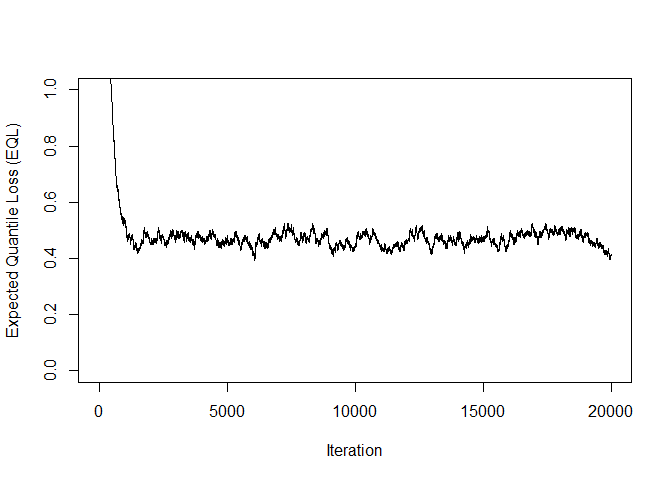
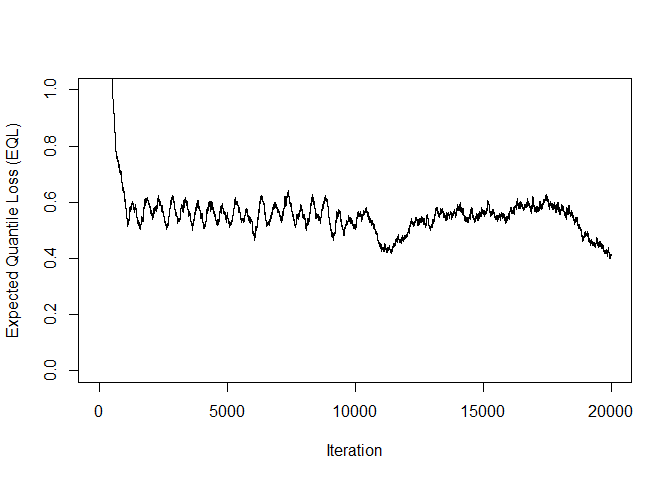
Changed DUMIQE algorithm

Changed region(s): [[0.1562, 0.2812, 0.5625, 0.5312], [0.5625, 0.4062, 0.875, 0.5312]]

diff --git a/3rd_session.md b/3rd_session.md
@@ -48,7 +48,7 @@ DUMIQE <- function (t, x_obs, q_hat_previous, lambda_vec, q_prob) {
         rep(Q_min, times = length(lambda_vec)) # L was still not defined
     } else {
         ifelse(
-            x_obs[t + 1] >= q_hat_previous,                           # Logical vector
+            x_obs[t] >= q_hat_previous,                           # Logical vector
             # RECALL: between 2 vectors, * and + performs element-wise multiplication and addition, respectively
             q_hat_previous + lambda_vec * D1(q_prob, q_hat_previous), # If TRUE
             q_hat_previous - lambda_vec * D2(q_prob, q_hat_previous)  # If FALSE
@@ -219,7 +219,7 @@ plot(
     x = 0:(N-1),
     y = oracle_fig2$lambdas,
     type = "l", # Line Plot
-    ylim = c(0,0.50),
+    ylim = c(0,0.15),
     xlab = "Iteration",
     ylab = expression(lambda)
 )
@@ -301,7 +301,8 @@ For higher values of $N$ (as in Hammer et al.
 only thing I need is to compute the squared difference between
 $Q_{\text{obs}}$ and $\hat{Q}$. There’s no need to store anything else!
 I´m having problems to run what´s below because of memory requirements.
-\## *Oracle* Approach
+
+## *Oracle* Approach
 
 <!-- ## _HIL_ Approach -->
 
